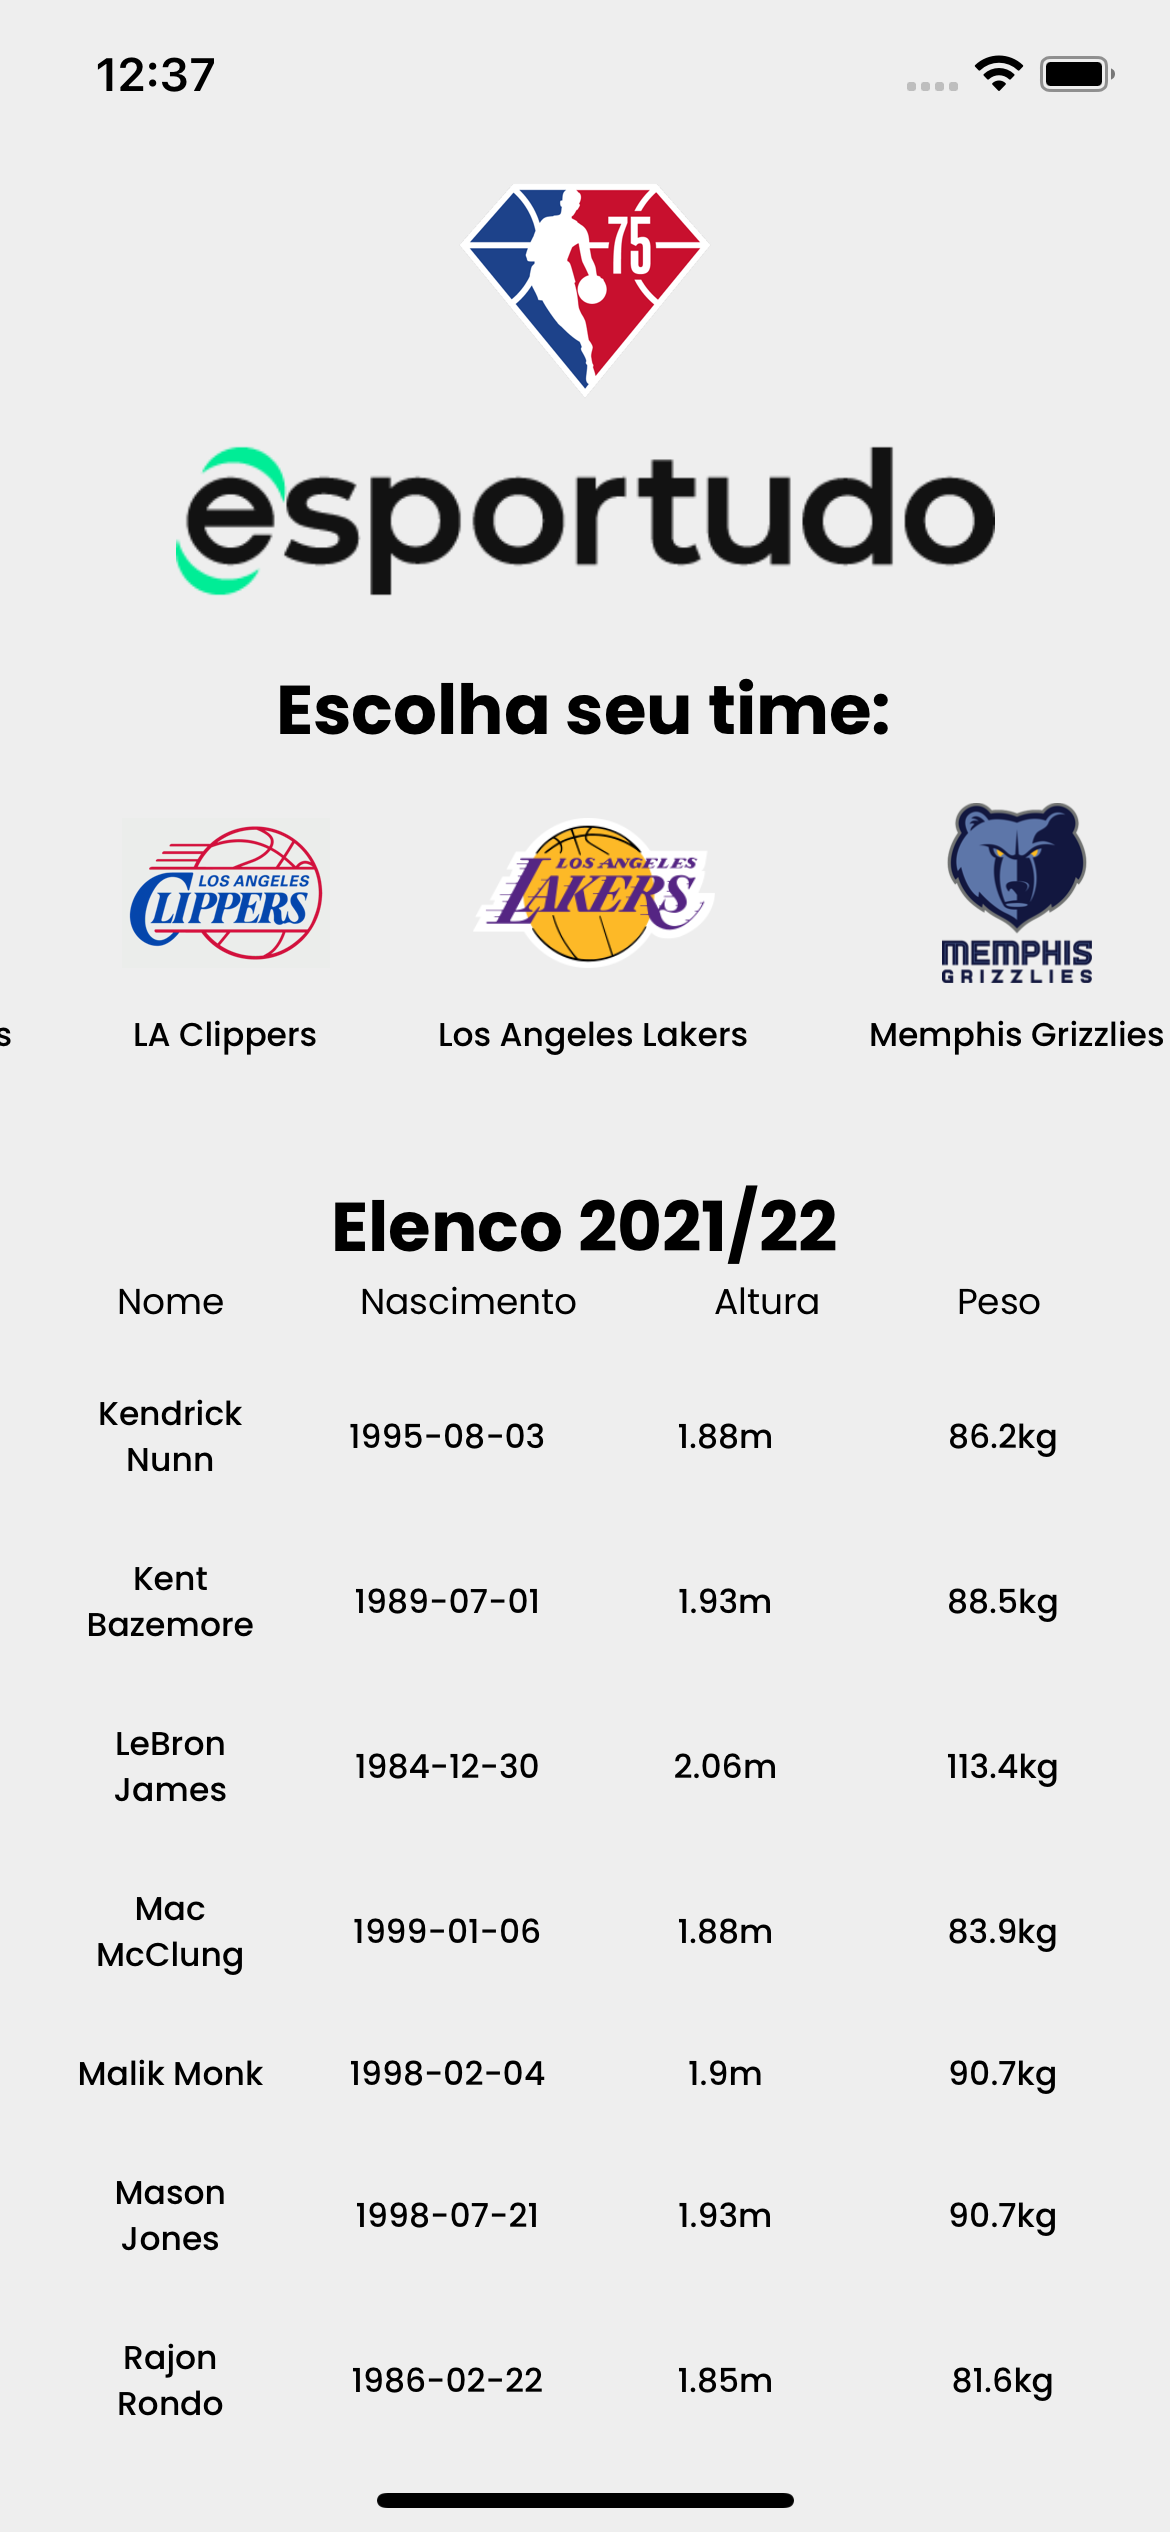
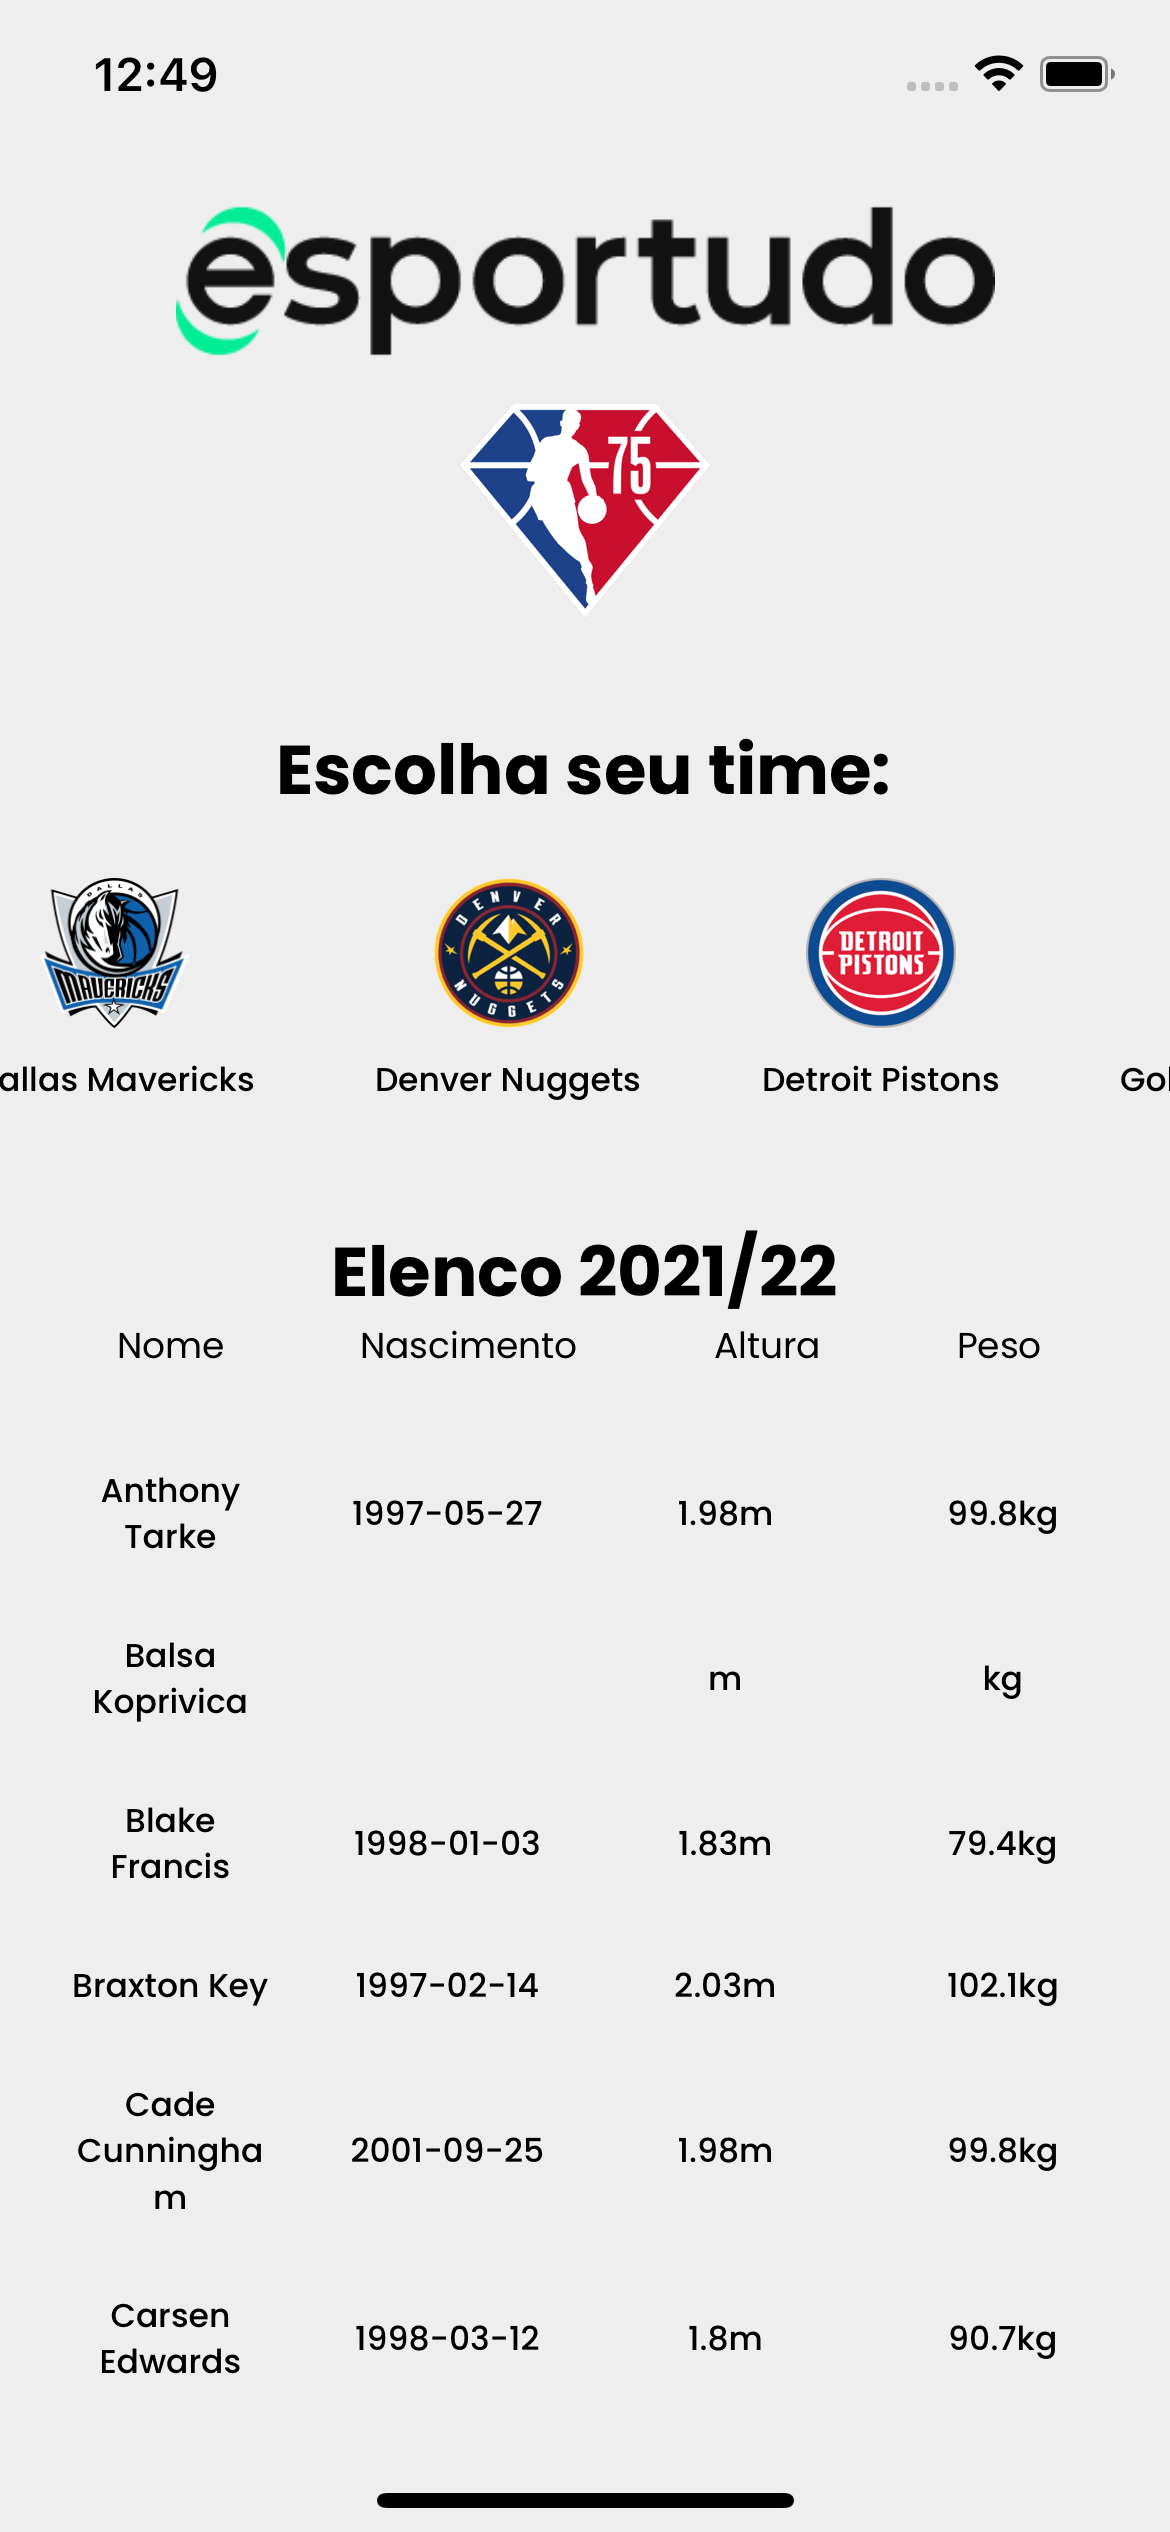
README e Screenshot atualizados

diff --git a/src/Pages/Home/index.tsx b/src/Pages/Home/index.tsx
@@ -43,9 +43,8 @@ const Home = () => {
 
   return (
     <Container>
+      <Image style={{ width: "70%", height: "7%", marginTop: 20 }} source={require("../../assets/esportudoLogo.png")} />
       <Image style={{ width: 100, height: 100 }} source={require("../../assets/nbaLogo.png")} />
-
-      <Image style={{ width: "70%", height: "7%" }} source={require("../../assets/esportudoLogo.png")} />
 
       <Title>Escolha seu time:</Title>
 

diff --git a/README.md b/README.md
@@ -8,7 +8,7 @@
 
 <h1 align="center">
     <img alt="Screenshot" title="Screenshot"  width="500px" src="./src/assets/screenshot.png" />
-</h1>
+</h1>****
 
 <br>
 
